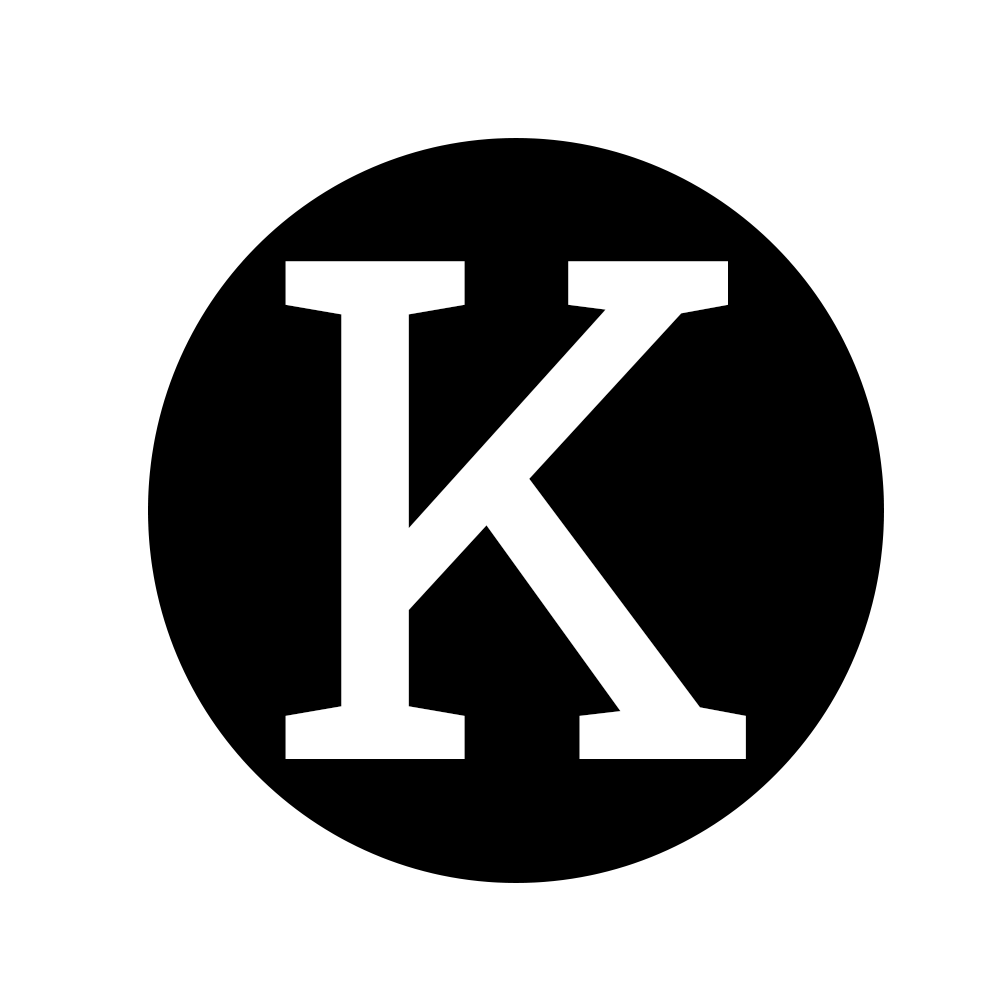
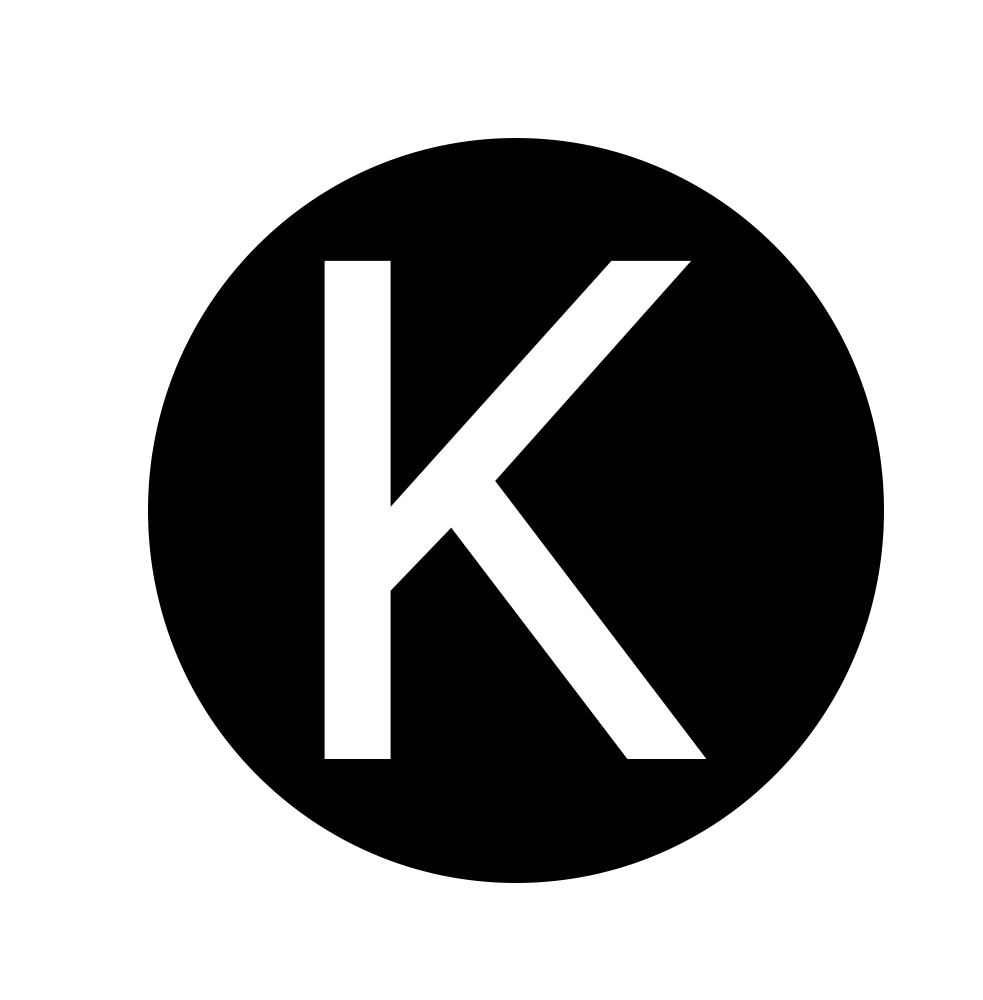
Perf: Implement high-priority performance optimizations
- Enable Next.js image optimization (AVIF/WebP)
- Add SWC minification and compression
- Optimize package imports for lucide-react and recharts
- Add database indexes for frequently queried fields
- Replace Google Fonts CDN with next/font for better performance
- Font will now be self-hosted and optimized

Changed region(s): [[0.3967, 0.248, 0.763, 0.775], [0.2747, 0.248, 0.3662, 0.775]]

diff --git a/src/app/layout.tsx b/src/app/layout.tsx
@@ -3,6 +3,13 @@ import type { Metadata } from 'next'
 import { ClerkProvider } from '@clerk/nextjs'
 import { heIL } from '@clerk/localizations'
 import { Toaster } from '@/components/ui/toaster'
+import { Rubik } from 'next/font/google'
+
+const rubik = Rubik({
+    subsets: ['hebrew', 'latin'],
+    display: 'swap',
+    variable: '--font-rubik'
+})
 
 export const metadata: Metadata = {
     title: 'Keseflow',
@@ -32,7 +39,7 @@ export default function RootLayout({
                 }
             }}
         >
-            <html lang="he" dir="rtl">
+            <html lang="he" dir="rtl" className={rubik.variable}>
                 <body>
                     {children}
                     <Toaster />

diff --git a/src/app/globals.css b/src/app/globals.css
@@ -2,8 +2,6 @@
 @tailwind components;
 @tailwind utilities;
 
-@import url('https://fonts.googleapis.com/css2?family=Rubik:ital,wght@0,300;0,400;0,500;0,600;0,700;0,800;0,900;1,300;1,400;1,500;1,600;1,700;1,800;1,900&display=swap');
-
 @layer base {
   :root {
     --background: 210 20% 98%;
@@ -59,7 +57,7 @@
 
   body {
     @apply bg-[hsl(var(--background))] text-foreground;
-    font-family: 'Rubik', -apple-system, BlinkMacSystemFont, 'Segoe UI', sans-serif;
+    font-family: var(--font-rubik), -apple-system, BlinkMacSystemFont, 'Segoe UI', sans-serif;
     direction: rtl;
   }
 }

diff --git a/next.config.js b/next.config.js
@@ -1,6 +1,16 @@
 /** @type {import('next').NextConfig} */
 const nextConfig = {
     reactStrictMode: true,
+    swcMinify: true,
+    compress: true,
+    images: {
+        formats: ['image/avif', 'image/webp'],
+        deviceSizes: [640, 750, 828, 1080, 1200],
+        imageSizes: [16, 32, 48, 64, 96],
+    },
+    experimental: {
+        optimizePackageImports: ['lucide-react', 'recharts'],
+    },
 }
 
 module.exports = nextConfig
